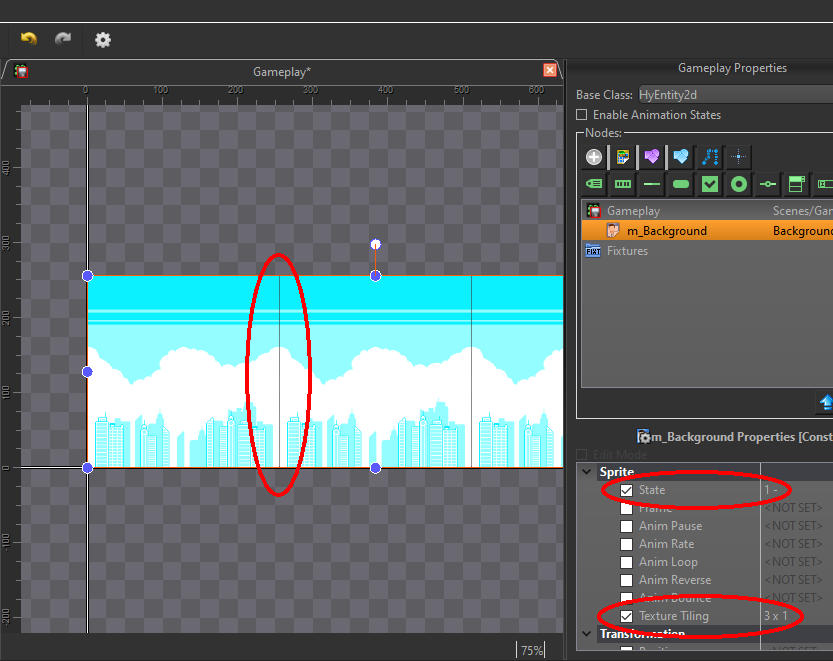
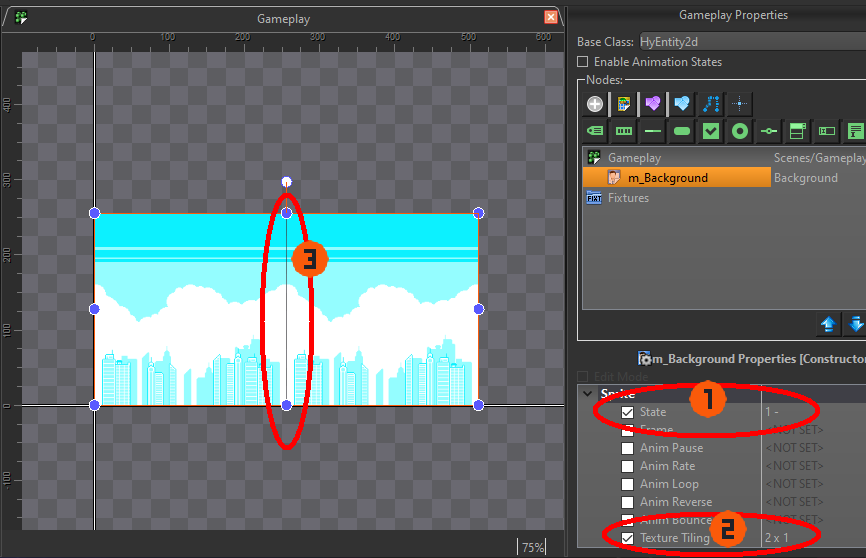
Seam fix rewrite

diff --git a/mkdocs/docs/getting-started/first-project.md b/mkdocs/docs/getting-started/first-project.md
@@ -297,45 +297,53 @@ Right-click :material-mouse-right-click: on your active project ![Active Project
 
 - Within the ![Prefix Icon](../img/editor/Prefix.png) **Scenes** prefix, create a ![New Entity Icon](../img/editor/Entity-New.png) **New Entity** called `Gameplay`
 - Within the [Project Explorer](../editor//projects.md#project-explorer) drag and drop ![Sprite Icon](../img/editor/Sprite.png) **Background** into the main view to create a Node of that Prefab called `m_Background`
-- With `m_Background` Node selected, change the **Sprite** → "State" to `1` (the noon-daylight background)
-- Also change the **Sprite** → "Texture Tiling" to be `3 x 1`
+- :material-numeric-1-circle:{.hyindicator}With `m_Background` Node selected, change the **Sprite**→**State** to `1` (the noon-daylight background)
+- :material-numeric-2-circle:{.hyindicator}Change the **Sprite**→**Texture Tiling** to be `2 x 1`
+- :material-numeric-3-circle:{.hyindicator}After tiling <code>m_Background</code> you will notice a seam where it wraps
 
 <figure>
   <img src="../img/getting-started/flappy-entity-seam.png">
-  <figcaption>After tiling <code>m_Background</code> you will notice seams when it wraps</figcaption>
+  <figcaption></figcaption>
 </figure>
 </div>
 
 ---
 <center><h3>Resolving the seams</h3></center>
 
-The seams in the tiling `m_Background` are due to texture filtering and atlas packing settings. By default assets are assigned `Bilinear` filtering, which samples the four nearest texels and calculates a weighted average to create a smooth gradient. The seams you are seeing on the edges are sampling the nearby transparent texels around the actual image (as it sits on the texture atlas).
+The seams in a tiling Sprite are due to texture filtering and atlas packing settings. By default assets are assigned `Bilinear` filtering, which samples the four nearest texels and calculates a weighted average to create a smooth gradient. The seams you are seeing on the edges are sampling the nearby transparent texels around the actual image (as it sits on the texture atlas).
 
 <figure>
   <img src="../img/getting-started/texture-filters.png">
   <figcaption>Filtering difference if you were to zoom into a texture's texels</figcaption>
  </figure>
 
+To fix this we can set an **extrude** value on the atlas packing settings. This duplicates the outermost texels of each atlas frame into the surrounding padding area to prevent texture bleeding. In our case it will prevent `Bilinear` filtering from sampling transparent texels when tiling.
+
+<div class="grid" markdown>
+
+- ![Save Icon](../img/editor/file-save.png) **Save** all open items
+- Within the [Asset Manager](../editor/asset-manager.md) in the **Bank** groupbox, change the ![Settings Icon](../img/editor/generic-settings.png) **Atlas Bank Settings** → **Packing Options** → **Extrude Amount** to `1`
+- Regenerate the Atlas Bank
+- Optionally change all the assets' properties to use `Nearest` filtering
+
 <div class="grid cards" markdown>
-
--   <h1>**Option A:** Keep the `Bilinear` filtering</h1>
-    Set an Extrude value on the atlas packing settings. This duplicates the outermost texels of each atlas frame into the surrounding padding area to prevent texture bleeding. In our case it will prevent `Bilinear` filtering from sampling transparent texels when tiling:<br><br>
-    - Within the [Asset Manager](../editor/asset-manager.md) in the **Bank** groupbox, change the ![Settings Icon](../img/editor/generic-settings.png) **Atlas Bank Settings** → **Packing Options** → **Extrude Amount** to `1`
-    - Regenerate the Atlas Bank
-
--   <h1>:material-check-bold:{.hyindicator}**Option B:** Change to `Nearest` filtering (recommended)</h1> 
-    This filtering results in sharp, blocky, pixelated visuals which matches the intended art style, and also naturally avoids the problem all together. Make sure to ![Save Icon](../img/editor/file-save.png) **Save** all open items before changing the following:<br><br>
+-   <h1>:material-check-bold:{.hyindicator}Change assets to **Nearest filtering** (recommended)</h1> 
+    This filtering results in sharp, blocky, pixelated visuals which matches the intended art style. 
     - Within the [Asset Manager](../editor/asset-manager.md) in the tree view area, select all items (click in tree view then press ++ctrl++ + ++a++)
     - Right-click :material-mouse-right-click: on the selected items and choose ![Asset Properties Icon](../img/editor/AtlasFrame-Settings.png) **Asset Properties**
     - Change **Filtering** to `Nearest` and press OK
     - Repack the assets
 </div>
+</div>
 
+!!! tip "When using Nearest filtering"
+    Having the assets use `nearest` filtering naturally avoids the seam problem all together if the camera's position is snapped to whole pixels. However even with `nearest` filtering there are a few sub-pixel coordinates that can still cause a seam to be seen. So it's a good idea to set the **extrude** amount in the ![Settings Icon](../img/editor/generic-settings.png) **Atlas Bank Settings** regardless of which texture filtering you choose.
 ---
 
-...continuing with our entity ![Entity Icon](../img/editor/entity.png) **Gameplay**
+...continuing with our entity ![Entity Icon](../img/editor/Entity.png) **Gameplay**
 
 - Within the [Project Explorer](../editor//projects.md#project-explorer) drag and drop ![Sprite Icon](../img/editor/Sprite.png) **Ground** into the main view to create a Node of that Prefab called `m_Ground`
+- Change **Sprite** → **Texture Tiling**: `8 x 1`
 
 ## 5. Programming the Game
 
